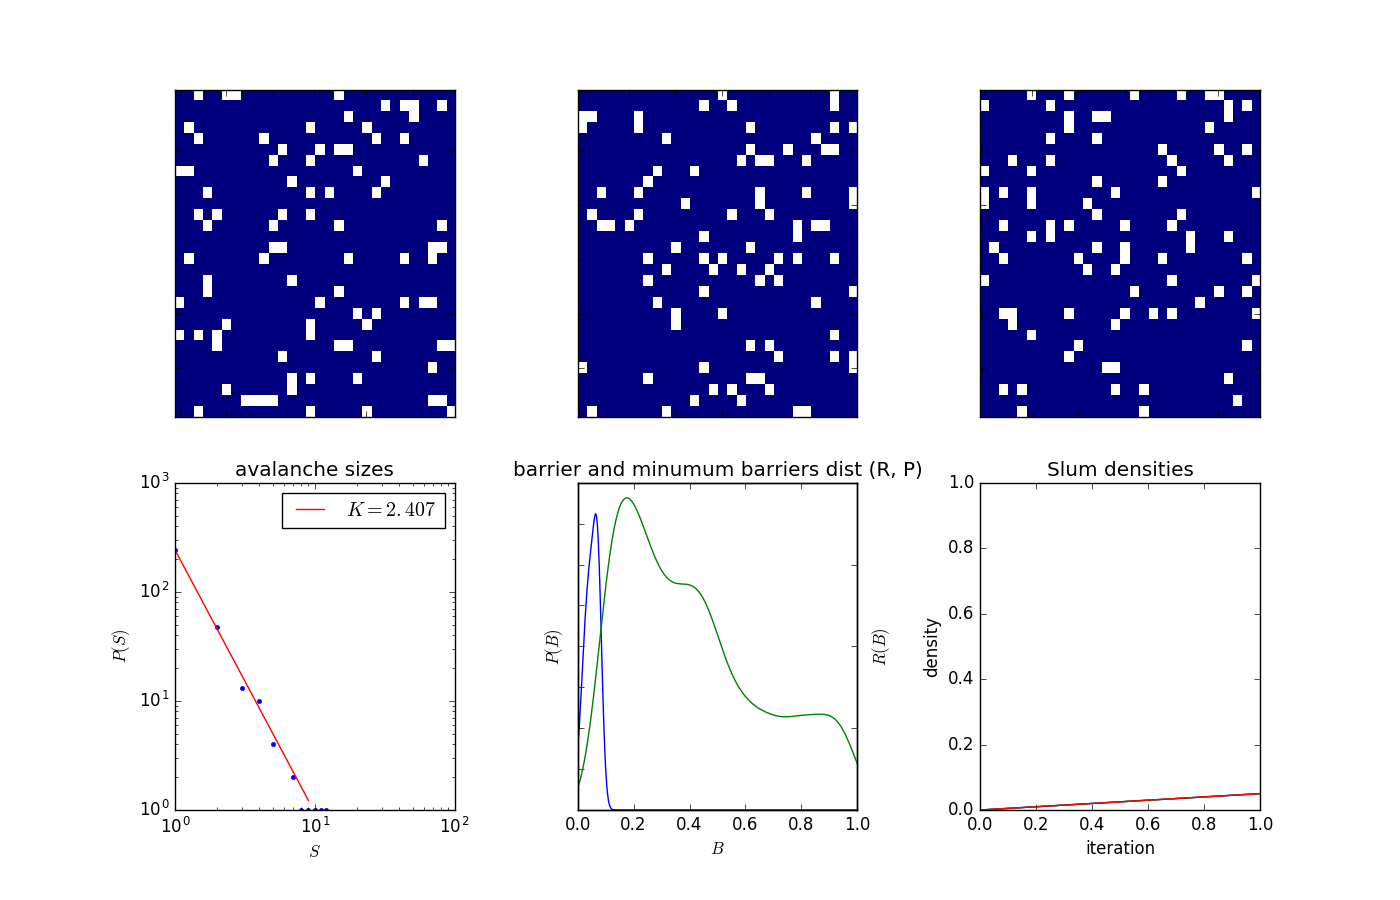
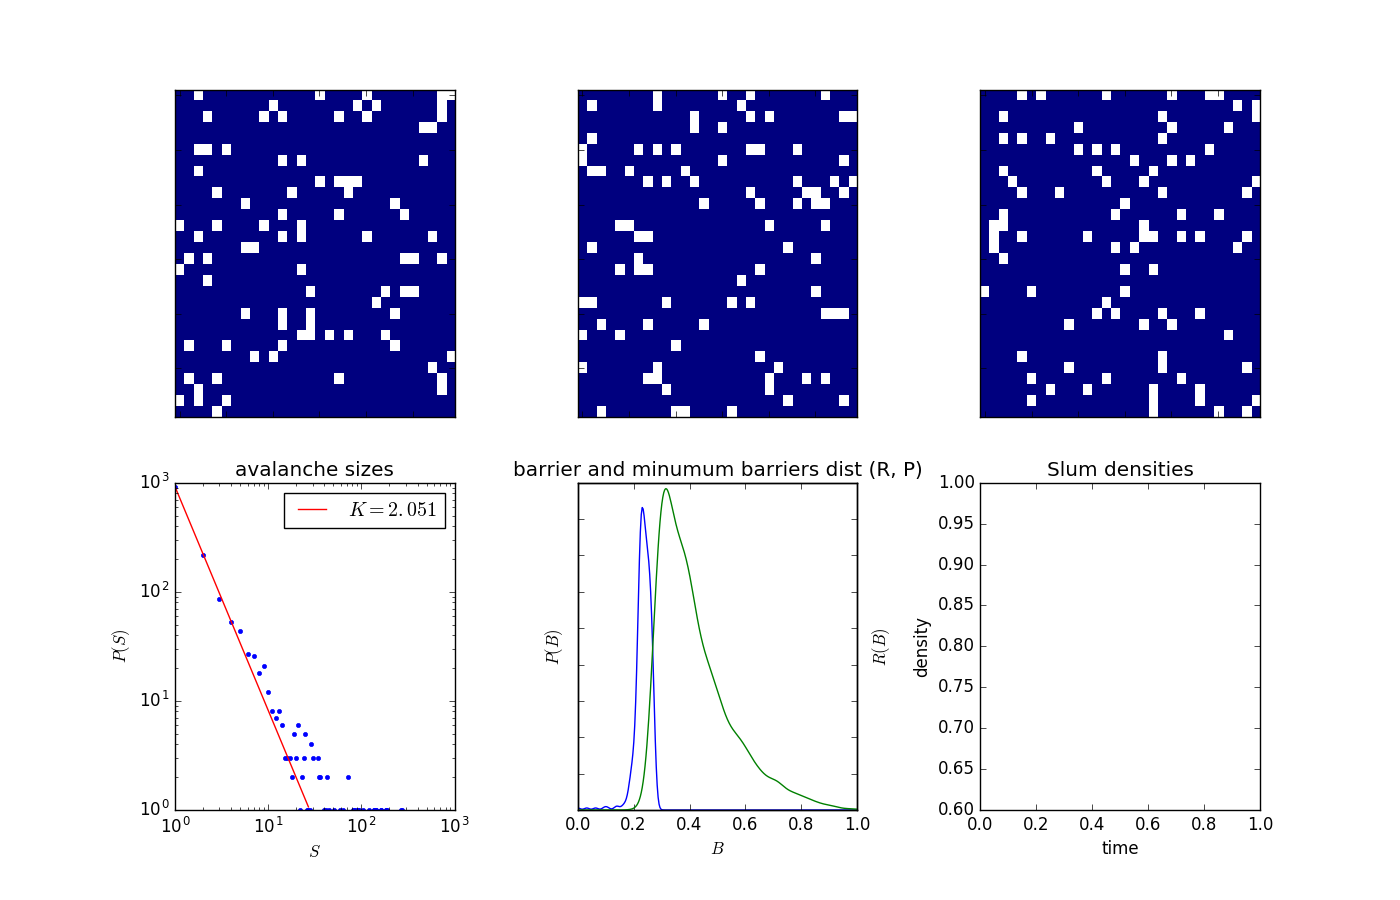
multiple animate

diff --git a/code/slumnetwork.py b/code/slumnetwork.py
@@ -681,10 +681,10 @@ class Slums(object):
 
         denax = plt.subplot2grid((1 + rows, cols), (rows, 2))
         denax.set_xlim([0, 1])
-        denax.set_ylim([0, 1])
+        denax.set_ylim([0.6, 1])
         plt.title("Slum densities")
         plt.ylabel("density")
-        plt.xlabel("iteration")
+        plt.xlabel("time")
         lines = []
 
         for _ in range(len(self.states[-1])):
@@ -1050,7 +1050,7 @@ def main():
     '''
     # empty_percent_parameter_plot(10, 10, 1000)
     #plt.xkcd()
-    slums = Slums(3, (30, 30), empty_percent=0.1, time_limit=500, static_people=True, static_slums=True)
+    slums = Slums(3, (30, 30), empty_percent=0.1, time_limit=40000, static_people=True, static_slums=True)
     # nrofslums_parameter_plot(np.linspace(1,5,5), 10, 1000)
     # singleslumsize_parameter_plot(np.linspace(5,50,10), 10, 1000)
 
@@ -1058,12 +1058,12 @@ def main():
     # empty_percent_parameter_plot(10, 10, 20000)
     # singleslumsize_parameter_plot(np.linspace(5,50,10), 20, 25000)
     # nrofslums_parameter_plot(np.linspace(1,8,8), 10, 20000)
-    effect_of_location(10, 20000)
+    # effect_of_location(10, 20000)
 
 
-    # slums.execute(save_steps=1, net_freq=25)
+    slums.execute(save_steps=100, net_freq=25)
     # slums.plot_network()
-    # slums.make_dashboard()
+    slums.make_dashboard()
 
     # slums.plot_barrier_distribution()
     # slums.plot_avalanche_distance()

diff --git a/code/bs2d.py b/code/bs2d.py
@@ -17,7 +17,7 @@ class BaxSneppen2D(object):
     '''
     A simple Bax-Sneppen 2D model with basic functions to populate and advance the model.
     '''
-    def __init__(self, slum_size=(15, 15), empty_percent=0.3, cell_decrease_factor=0.5):
+    def __init__(self, slum_size=(15, 15), empty_percent=0.3, cell_decrease_factor=0.8):
         # Set the cell decrease factor parameter.
         self.cell_decrease_factor = cell_decrease_factor
 
